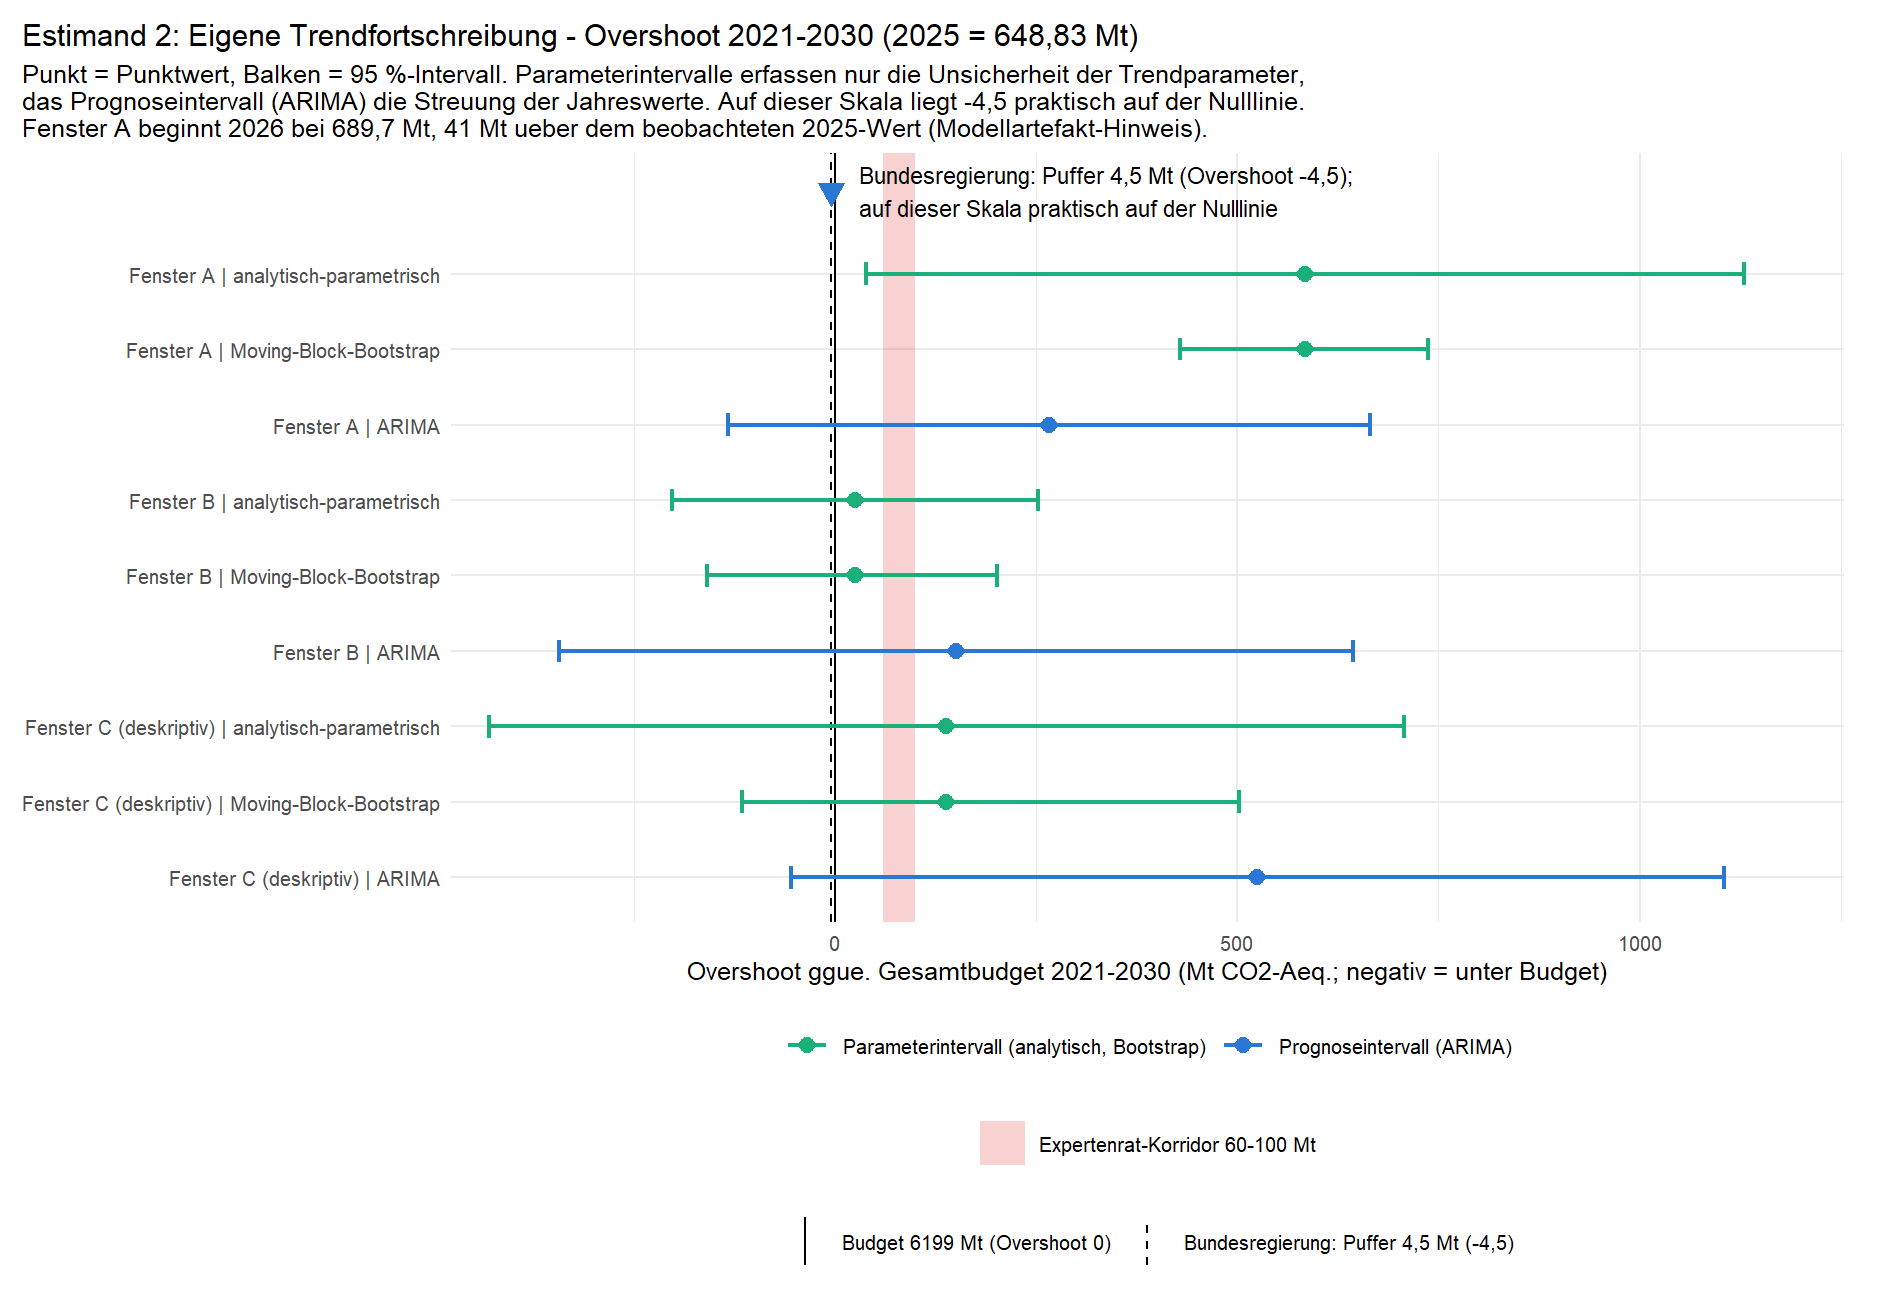
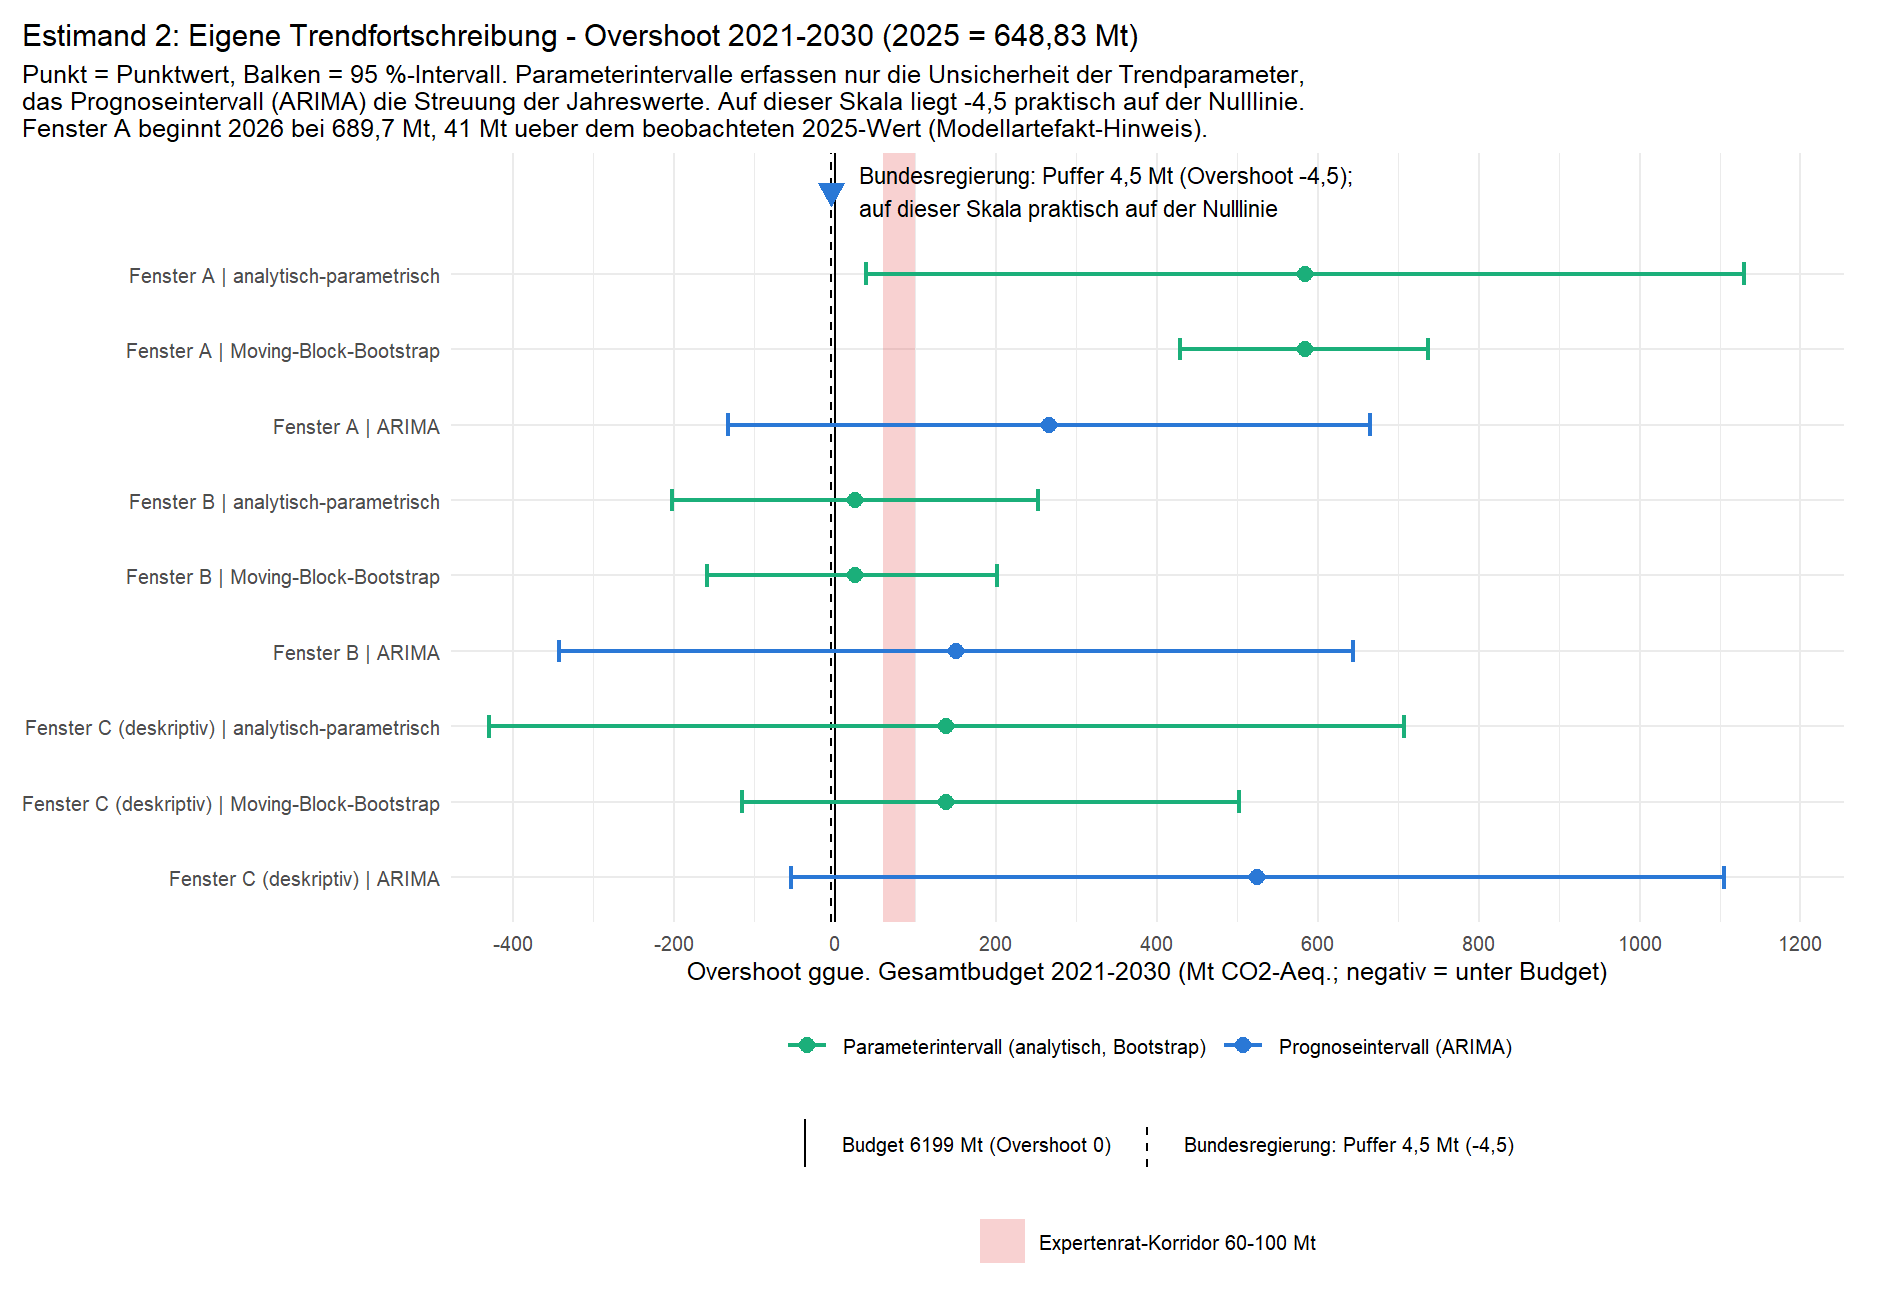
Expertenrat-Budgetabgleich 2030: Fassung 4 (N3.1-N3.3: Statusangleichung nach freigegebenem Erratum, Fenster-C-Erklaerung, Achsenmarken); keine Kernzahl geaendert; Validator-Pruefung der Fassung 4 ausstehend

diff --git a/Analysen/2026-08-expertenrat-budgetabgleich/Analysebericht_expertenrat-budgetabgleich.md b/Analysen/2026-08-expertenrat-budgetabgleich/Analysebericht_expertenrat-budgetabgleich.md
@@ -1,9 +1,9 @@
 # Analysebericht: Expertenrat-Budgetabgleich 2021-2030 und H1-2026
 
-**Fassung 3 (nach Nachpruefung 1 der Validierung), 23.10.2026.** Fassung 1 (Commit 78250e3) enthielt einen Rechenfehler in den ARIMA-Intervallen (behoben in Fassung 2); Fassung 3 behebt vier geringe Befunde der Nachpruefung (N2.1-N2.4: Beschreibung des POST-HOC-Prognoseintervalls, Seed-Beschriftung, Grafikreste, Zusatzkontrollen). Kernzahlen sind gegenueber Fassung 2 unveraendert (Abschnitt "Aenderungen nach Validierung", Fassung 3).
-**SAP:** `SAP_Expertenrat-Budgetabgleich-2030.md`, Version 1.1 (Header: final, eingefroren 29.08.2026, Commit d9215cb). Die Bestaetigung durch Daniel Saure, dass v1.1 als eingefroren gilt, ist in `SAP_Bestaetigung_Daniel_Saure_2026-10-23.md` dokumentiert. Einschraenkung laut dieser Datei: Die im Chat zitierte Nachricht ist nach 300 Zeichen abgeschnitten, und eine ausdrueckliche Antwort zu den offenen Punkten 6a/6b liegt nicht vor; die Textwidersprueche im SAP (Abschnitt 0 "draft", Offene Punkte 6) bleiben bestehen. Der SAP wurde nicht veraendert.
+**Fassung 4 (nach Nachpruefung 2 der Validierung), 24.10.2026.** Fassung 1 (Commit 78250e3) enthielt einen Rechenfehler in den ARIMA-Intervallen (behoben in Fassung 2); Fassung 3 behebt vier geringe Befunde der Nachpruefung (N2.1-N2.4: Beschreibung des POST-HOC-Prognoseintervalls, Seed-Beschriftung, Grafikreste, Zusatzkontrollen). Kernzahlen sind gegenueber Fassung 2 unveraendert (Abschnitt "Aenderungen nach Validierung", Fassung 3). Fassung 4 gleicht die Dokumentation an das freigegebene Erratum an, korrigiert die Erklaerung zu Fenster C und ergaenzt Achsenmarken (N3.1-N3.3); Kernzahlen unveraendert.
+**SAP:** `SAP_Expertenrat-Budgetabgleich-2030.md`, Version 1.1 (Header: final, eingefroren 29.08.2026, Commit d9215cb). Die Bestaetigung durch Daniel Saure, dass v1.1 als eingefroren gilt, ist in `SAP_Bestaetigung_Daniel_Saure_2026-10-23.md` dokumentiert. Die Antworten zu den Offenen Punkten 6a ("Limitation reicht") und 6b (Datenquellen-Zeile 5 bestaetigt) liegen vor (Daniel Saure, 23.10.2026); das SAP-Erratum 1 (`SAP_Erratum_1_Expertenrat-Budgetabgleich-2030.md`) wurde freigegeben (Commit d20e448). Dokumentiert in `SAP_Bestaetigung_Daniel_Saure_2026-10-23.md` (Abschnitt "Ergaenzung") und im Erratum. Die verbliebenen Textwidersprueche im SAP (Abschnitt 0 "draft", Offene Punkte 6) bleiben als Hinweis bestehen und sind im Erratum berichtigt. Der SAP wurde nicht veraendert.
 **Skript:** `expertenrat-budgetabgleich.R` (R 4.6.1), fehlerfrei durchgelaufen (Exit-Code 0), Log `run_log.txt`, `output/sessionInfo.txt`.
-**Status:** Analyst-Ausgabe; Nachpruefung 1 der Validierung liegt vor (Fassung 2), Fassung 3 ist noch nicht erneut geprueft; keine Freigabe, keine Veroeffentlichung.
+**Status:** Analyst-Ausgabe; Nachpruefung 1 und 2 der Validierung liegen vor (Nachtrag 1 und 2 im Validierungsbericht), Fassung 4 ist noch nicht erneut geprueft; keine Freigabe der Analyse, keine Veroeffentlichung.
 **Abweichungen / Rueckfragen / Post-hoc:** `Abweichungsprotokoll_expertenrat-budgetabgleich.md`.
 
 Rundung wie im SAP (11): eine Nachkommastelle fuer Mt und Prozentpunkte; Ausnahmen sind gekennzeichnet (Estimand 1: drei Stellen in Klammern wegen der Toleranz 0,05 pp; Bootstrap-Grenzen in ganzen Mt wegen Monte-Carlo-Fehler).
@@ -164,7 +164,7 @@ Alle Abweichungen liegen innerhalb von 1,2 % (Monte-Carlo-Fehler; Toleranz im Sk
 ### 2.4 Hinweise zu Intervallbreiten (POST-HOC, G2/G3)
 
 - **Bootstrap (Blocklaenge 2, Seed 20260827, B = 2000):** Monte-Carlo-Fehler der Perzentilgrenzen betraegt einige Mt (Wiederholung mit anderen Seeds, B = 10000: Fenster A 431-433 / 736-741, Fenster B -158 bis -156 / 198-201). Blocklaenge 4 (POST-HOC): Fenster A 426-781 (B = 2000) bzw. 427-776 (B = 10000) statt 429-737; Fenster B -110 bis 147 bzw. -118 bis 157; Fenster C -6 bis 412. Laengere Bloecke erweitern also die Obergrenze in A und verengen die Intervalle in B/C (wenige Startpunkte); der Block-Bootstrap ist bei B/C wenig aussagekraeftig. `output/posthoc_bootstrap_sensitivitaet.csv`.
-  **Zur Seed-Beschriftung (Fassung 3, N2.2):** Der Hauptlauf setzt den Seed 20260827 nur einmal und verbraucht den Zufallsstrom der Reihe nach (primaer Fenster A, dann B, dann C, danach der Anhang). Jede Zeile der Sensitivitaetstabelle startet dagegen ihren Strom neu (Spalte `Seed_Neustart`). Nur fuer Fenster A (erster Zug im Strom) stimmt die Zeile "Blocklaenge 2, B = 2000, Seed 20260827" mit dem Hauptlauf ueberein (429 - 737). Fuer B weicht sie ab (Sensitivitaetszeile -153 bis 199 gegenueber Hauptlauf -159 bis 201); bei C stimmen beide innerhalb der Rundung ueberein (-116 bis 502), aber nur zufaellig. Die Abweichung ist reiner Monte-Carlo-Fehler, kein Rechenfehler.
+Fuer B weicht sie ab (Sensitivitaetszeile -153 bis 199 gegenueber Hauptlauf -159 bis 201); bei C liegen beide Zeilen nahezu gleich (Obergrenze identisch 502,3; Untergrenze -116,0 gegenueber -115,6). Das ist keine Zufallsuebereinstimmung, sondern eine Diskretisierungswirkung: Bei n = 6 gibt es nur wenige moegliche Ziehungen von Residuenbloecken und damit nur wenige verschiedene Bootstrap-Ergebnisse (auch die Zeilen mit anderen Seeds liefern dieselbe Untergrenze -115,6). Die Abweichung in B ist Monte-Carlo-Fehler, kein Rechenfehler.
 - **HAC in Fenster A:** Der Standardfehler der 5-Jahres-Summe betraegt bei OLS 63,2 Mt, bei Newey-West mit der sandwich-Voreinstellung (Prewhitening an) 268,3 Mt, ohne Prewhitening 134,9 Mt. Die Breite des analytischen A-Intervalls (Faktor ca. 4 gegenueber OLS) haengt also stark von den Voreinstellungen ab; die SAP-Vorgabe `sandwich::NeweyWest` ist eingehalten. `output/posthoc_hac_vergleich.csv`.
 - **POST-HOC, deskriptiv: Prognoseintervall der Summe fuer OLS (Fassung 3 praezisiert, N2.1).** Berechnet wird: Varianz = Parametervarianz der 5-Jahres-Summe + 5 x sigma^2 (OLS-Restvarianz; Annahme **unabhaengiger** kuenftiger Restfehler), t-Quantil mit n-2 Freiheitsgraden. Die Parametervarianz ist dieselbe wie im analytischen Parameterintervall von 2.2: in Fenster A Newey-West (HAC), in B und C klassisch OLS. Overshoot-Intervalle: **Fenster B -234,4 bis 284,4 und Fenster C -459,6 bis 737,1** (beide Varianten identisch; C n = 6). **Fenster A:** 17,1 bis 1151,3 mit HAC-Parametervarianz (SE der Summe 268,3 Mt) plus iid-Restvarianz; diese Mischung ist inkonsistent, denn die iid-Annahme ist in A verletzt (DW signifikant). Mit klassischer OLS-Parametervarianz (SE 63,2 Mt) ergibt sich 382,3 bis 786,1; dieses Intervall ist bei der vorhandenen Autokorrelation zu optimistisch. Keine der beiden A-Varianten ist ein verlaesslicher Prognosebereich; sie zeigen nur, dass das Ergebnis von der Varianzannahme abhaengt. Nicht im SAP, nicht in Kernaussage oder Klassifikation; `output/posthoc_prognoseintervall_ols.csv` (beide Varianten, Spalte `Parametervarianz_Quelle`).
 
@@ -200,7 +200,7 @@ Grundlage: `Validierungsbericht_expertenrat-budgetabgleich.md` (Commit-Stand 782
 | Befund | Status | Aenderung |
 |---|---|---|
 | **K1** ARIMA-Kovarianz | erledigt | Fehler: `convolve(ar_poly, c(1,-1), type="open")` kehrt das zweite Argument um (alternierende psi-Gewichte). Ersetzt durch eigene Polynommultiplikation `polymul()` mit Unit-Test. Neue Kontrollen: Random-Walk-Formel (sigma^2 * h(h+1)(2h+1)/6) und Monte-Carlo-Simulation (10000 Pfade); die alte Diagonalenkontrolle war blind. Alle ARIMA-Zeilen, Tabellen, Grafik und Text neu. **Alte (falsche) ARIMA-Intervalle:** Overshoot A 173,1-359,5; B 35,3-265,9; C 390,0-660,5. **Neu:** A -132,7 bis 665,4; B -343,1 bis 644,3; C -53,9 bis 1104,4 (Punktwerte unveraendert). Die Klassifikation nach Punktwert aendert sich nicht; jede Aussage aus Fassung 1, die auf der Breite der ARIMA-Intervalle beruhte, war falsch. |
-| **W1** SAP-Bestaetigung | erledigt (mit Einschraenkung) | Verweis auf `SAP_Bestaetigung_Daniel_Saure_2026-10-23.md` im Kopf; Einschraenkung zu 6a/6b benannt. SAP nicht geaendert. |
+| **W1** SAP-Bestaetigung | erledigt (Fassung 4: vollstaendig) | Verweis auf `SAP_Bestaetigung_Daniel_Saure_2026-10-23.md`. Fassung 2/3 nannten noch die fehlende Antwort zu 6a/6b; ueberholt: Die Antworten zu den Offenen Punkten 6a ("Limitation reicht") und 6b (Datenquellen-Zeile 5 bestaetigt) liegen vor (Daniel Saure, 23.10.2026); das SAP-Erratum 1 (`SAP_Erratum_1_Expertenrat-Budgetabgleich-2030.md`) wurde freigegeben (Commit d20e448). Dokumentiert in `SAP_Bestaetigung_Daniel_Saure_2026-10-23.md` (Abschnitt "Ergaenzung") und im Erratum. SAP, Bestaetigungsdatei und Erratum wurden nicht von mir geaendert. |
 | **W2** 625-Variante | erledigt | Aus Hauptbericht, Hauptgrafik und Haeufigkeitszaehlung entfernt, in Anhang A verschoben. Wortlaut korrigiert (Agora-Wert fuer 2026, Anlage 2 KSG = 604 Mt, moegliche Anpassung nach Par. 4 Abs. 2 KSG nur plausibel, nicht belegt). Aussage "SAP schreibt Parallelrechnung vor" zurueckgenommen (SAP 6.3 nicht ausgeloest). Erratum-Hinweis im Abweichungsprotokoll; SAP nicht veraendert. |
 | **W3** Interpretation | erledigt | Kernaussage mit Spanne +25 bis +584 Mt und Intervallueberdeckung vorangestellt; Niveausprung +40,9 Mt und Residuum 2025 genannt; Spalte "Klassifikation (nur Punktwert)"; kein verbales "naeher" fuer A-Zeilen. |
 | **W4** Diagnostik | erledigt | Linearitaets- und ACF-Interpretation je Fenster (2.1) und als Limitation. Keine neuen Modelle. |
@@ -253,3 +253,12 @@ Dateien: `output/anhang_625_tabelle.csv`, `output/anhang_625_overshoot.png`, `ou
 - Tabellen: `output/estimand1_tabelle.csv`, `output/estimand2_tabelle.csv`, `output/diagnostik_tabelle.csv`, `output/arima_kontrollen.csv`, `output/posthoc_*.csv`, `output/datenabgleich_basiszeitreihe.csv`, `output/systemgrenzen_check.csv`, Anhang: `output/anhang_625_*`
 - Grafiken: `output/estimand1_h1_vs_cagr.png`, `output/estimand2_overshoot.png`, `output/estimand2_trend_bis_2030.png`, `output/diagnostik_primaer_*.png`
 - Rohdaten und Pruefsummen: `rohdaten/`, `rohdaten/SHA256SUMS.txt`
+
+### Fassung 4 (Behebung der Auflagen N3.1-N3.3 aus Nachtrag 2)
+
+| Befund | Status | Aenderung |
+|---|---|---|
+| **N3.1** Widerspruch zu Erratum/6a/6b | erledigt | Kopf und Tabelle W1 des Berichts sowie das Abweichungsprotokoll (RF-1-Nachtrag, Offene Punkte 2 und 3, Schlusszeile) angeglichen: Die Antworten zu den Offenen Punkten 6a ("Limitation reicht") und 6b (Datenquellen-Zeile 5 bestaetigt) liegen vor (Daniel Saure, 23.10.2026); das SAP-Erratum 1 (`SAP_Erratum_1_Expertenrat-Budgetabgleich-2030.md`) wurde freigegeben (Commit d20e448). Dokumentiert in `SAP_Bestaetigung_Daniel_Saure_2026-10-23.md` (Abschnitt "Ergaenzung") und im Erratum. Die Bestaetigungsdatei (von Daniel Saure/Top-Level-Session bereits ergaenzt) und das Erratum wurden nicht geaendert. |
+| **N3.2** Erklaerung Fenster C | erledigt | Formulierung korrigiert (2.4): Die Naehe der C-Sensitivitaetszeile zum Hauptlauf ist eine Diskretisierungswirkung bei n = 6 (wenige moegliche Ziehungen), kein Zufall. |
+| **N3.3** Achsenmarken | erledigt | `estimand2_overshoot.png` (und `anhang_625_overshoot.png`) haben jetzt Marken alle 200 Mt, darunter -400 und -200. Grafik mit Read visuell geprueft. |
+| Zahlen | unveraendert | Keine Kernzahl geaendert; Skript erneut gelaufen (Exit 0), Pruefsummenvergleich: alle 24 Dateien unveraendert. |

diff --git a/Analysen/2026-08-expertenrat-budgetabgleich/Abweichungsprotokoll_expertenrat-budgetabgleich.md b/Analysen/2026-08-expertenrat-budgetabgleich/Abweichungsprotokoll_expertenrat-budgetabgleich.md
@@ -47,7 +47,7 @@ Grundlage: `Validierungsbericht_expertenrat-budgetabgleich.md`. Fassung 1 (Commi
 
 | Nr. | Aenderung in Fassung 2 |
 |---|---|
-| RF-1 | `SAP_Bestaetigung_Daniel_Saure_2026-10-23.md` liegt vor und ist im Bericht referenziert. Einschraenkung: Chat-Zitat nach 300 Zeichen abgeschnitten; keine ausdrueckliche Antwort zu den Offenen Punkten 6a/6b; Textwidersprueche im SAP bestehen weiter. Der SAP wurde nicht veraendert. |
+| RF-1 | `SAP_Bestaetigung_Daniel_Saure_2026-10-23.md` liegt vor und ist im Bericht referenziert. [Stand Fassung 2; in Fassung 4 ueberholt:] Einschraenkung damals: Chat-Zitat nach 300 Zeichen abgeschnitten; keine ausdrueckliche Antwort zu 6a/6b. **Fassung 4:** Die Antworten zu den Offenen Punkten 6a ("Limitation reicht") und 6b (Datenquellen-Zeile 5 bestaetigt) liegen vor (Daniel Saure, 23.10.2026); das SAP-Erratum 1 (`SAP_Erratum_1_Expertenrat-Budgetabgleich-2030.md`) wurde freigegeben (Commit d20e448). Dokumentiert in `SAP_Bestaetigung_Daniel_Saure_2026-10-23.md` (Abschnitt "Ergaenzung") und im Erratum. Der SAP, die Bestaetigungsdatei und das Erratum wurden nicht von mir geaendert. |
 | RF-2 | Wortlaut korrigiert (Validierung W2): Agora nennt 625 Mt als gesetzliche Hoechstmenge 2026; Anlage 2 KSG (BGBl. 2024 I Nr. 235, abgerufen 23.10.2026, `rohdaten/ksg/`) nennt 604 Mt fuer 2026. Moeglicherweise ist 625 die nach Par. 4 Abs. 2 KSG angepasste Jahresmenge (Plausibilitaet: ERK-Anpassung 2030: 459,2 vs. 438 = +21,2; 604 + 21,2 = 625,2); in den Expertenrat-Dokumenten kommt 625 nicht vor, Agora ist die einzige Quelle, nicht belegt. Die 625-Variante ist auf Entscheidung Daniel Saure (23.10.2026) im Anhang A (POST-HOC, nicht SAP-erforderlich, ohne Aussagewert). Die Fassung-1-Aussage, SAP 6.3 schreibe die Parallelrechnung vor, ist zurueckgenommen: Die Bedingung (ungeklaerte Diskrepanz) ist nach der Klaerung nicht ausgeloest. |
 | RF-3 | Spalten umbenannt in "Parameterintervall" (analytisch, Bootstrap) und "Prognoseintervall" (ARIMA). Zusaetzlich POST-HOC-Prognoseintervall fuer OLS unter der Annahme unabhaengiger Fehler (Var = Parametervarianz + 5 sigma^2): A 17,1-1151,3 (Annahme verletzt, zu optimistisch), B -234,4-284,4, C -459,6-737,1. Begruendung: Estimand 2 betrifft die tatsaechliche Summe. Nicht im SAP, nicht Teil der Hauptergebnisse. |
 | RF-4 | Blocklaenge 2, Seed 20260827, B = 2000 bleiben primaer (Amendment-Praezedenz). POST-HOC: Blocklaenge 4 (A: 426-781 statt 429-737) und B = 10000 mit weiteren Seeds; Monte-Carlo-Fehler der Grenzen einige Mt; Bootstrap-Grenzen in ganzen Mt. Der Seed-Strom der Hauptlaeufe wurde nicht veraendert (Hauptergebnisse identisch zu Fassung 1). |
@@ -67,8 +67,8 @@ Grundlage: `Validierungsbericht_expertenrat-budgetabgleich.md`. Fassung 1 (Commi
 ## Offene Punkte (Fassung 2)
 
 1. Fokussierte Nachpruefung durch den validator als eigene Datei (CLAUDE.md, Dokumentationspflicht).
-2. Mensch: Soll ein formales SAP-Erratum zur 625-Annahme gefuehrt werden? Bleibt Anhang A im Bericht oder entfaellt er ganz (Validator bevorzugt Streichen)?
-3. Mensch: Ausdrueckliche Antwort zu den SAP-Punkten 6a/6b steht aus (siehe `SAP_Bestaetigung_Daniel_Saure_2026-10-23.md`).
+2. [Erledigt, Fassung 4] Mensch: Soll ein formales SAP-Erratum zur 625-Annahme gefuehrt werden? -> Erratum 1 wurde gefuehrt und am 23.10.2026 freigegeben (`SAP_Erratum_1_Expertenrat-Budgetabgleich-2030.md`, Commit d20e448). Zu Anhang A: bleibt als Audit-Trail, nicht in Blog/Kapitel/Kanaltexte (Verwendungsvermerk im Bericht).
+3. [Erledigt, Fassung 4] Antwort zu den SAP-Punkten 6a/6b: liegt vor (Daniel Saure, 23.10.2026; 6a: Limitation reicht, 6b: Datenquellen-Zeile 5 bestaetigt), dokumentiert im Erratum und in `SAP_Bestaetigung_Daniel_Saure_2026-10-23.md`.
 4. Herkunft der 625 (angepasste Jahresmenge?) ist nicht durch ein UBA-Dokument belegt; Quelle waere die UBA-Berechnung der Emissionsdaten 2025 (UBA 2026g, Tabelle 3).
 5. RF-3: Ob das POST-HOC-Prognoseintervall fuer OLS (bzw. eine GLS/AR(1)-Variante fuer Fenster A) ein SAP-Amendment braucht, entscheidet der Mensch.
 
@@ -86,4 +86,18 @@ Grundlage: Nachtrag 1 des Validierungsberichts. Keine Kernzahl hat sich geaender
 | N2.4 | Zusatzkontrollen fuer ARIMA(1,1,0), (0,1,1) und (0,1,0) an simulierten Reihen (eigene Seeds, 20000 MC-Pfade, geschlossene psi-Formeln); alle bestanden (MC-Abweichung <= 1,2 %, psi und Diagonale exakt). Hinweis zum identischen MC/analytisch-Verhaeltnis (gleicher Seed) im Bericht. Technisch: Der Zufallsstrom wird um die Zusatzkontrollen gesichert und wiederhergestellt; ein erster Entwurf ohne Sicherung hatte die Bootstrap-Hauptergebnisse veraendert (A 432 statt 429) und wurde vor dem Endlauf korrigiert, Endlauf identisch zu Fassung 2. |
 | Anhang A | Verwendungsvermerk im Analysebericht: bleibt als Audit-Trail im Repo, geht nicht in Blog, Kapitel oder Kanaltexte (Entscheidung Daniel Saure). |
 
-Offen: Fokussierte Pruefung der Fassung 3 durch den validator als eigene Datei; Entscheidungen zu SAP-Erratum und Antwort 6a/6b liegen beim Menschen (siehe Nachtrag Fassung 2).
+Offen: Fokussierte Pruefung der Fassung 3 durch den validator als eigene Datei (inzwischen als Nachtrag 2 erfolgt); [Fassung 4: Entscheidungen zu SAP-Erratum und zu 6a/6b liegen vor, siehe Nachtrag Fassung 4].
+
+---
+
+# Nachtrag Fassung 4 (Behebung N3.1-N3.3), 24.10.2026
+
+Grundlage: Nachtrag 2 des Validierungsberichts. Keine Kernzahl hat sich geaendert; Skript erneut gelaufen (Exit 0), Pruefsummenvergleich der Rohdaten: alle 24 Dateien unveraendert.
+
+| Befund | Aenderung |
+|---|---|
+| N3.1 | Bericht (Kopf, Tabelle W1), RF-1-Nachtrag, Offene Punkte 2 und 3 und die Schlusszeile von Nachtrag Fassung 3 angeglichen: Die Antworten zu den Offenen Punkten 6a ("Limitation reicht") und 6b (Datenquellen-Zeile 5 bestaetigt) liegen vor (Daniel Saure, 23.10.2026); das SAP-Erratum 1 (`SAP_Erratum_1_Expertenrat-Budgetabgleich-2030.md`) wurde freigegeben (Commit d20e448). Dokumentiert in `SAP_Bestaetigung_Daniel_Saure_2026-10-23.md` (Abschnitt "Ergaenzung") und im Erratum. Nicht geaendert: SAP, Validierungsbericht, Erratum, Bestaetigungsdatei. |
+| N3.2 | Erklaerung zu Fenster C im Bericht korrigiert: Diskretisierungswirkung bei n = 6 (wenige moegliche Ziehungen, auch mit anderen Seeds dieselbe Untergrenze -115,6), kein Zufall. Der Hinweis in der CSV (`posthoc_bootstrap_sensitivitaet.csv`) wurde nicht geaendert; er nennt B und C als abweichend, was fuer C nur im Rahmen von Rundung zutrifft. |
+| N3.3 | Achsenmarken der Hauptgrafik `estimand2_overshoot.png` (und Anhangsgrafik) alle 200 Mt, inkl. -400 und -200; visuell geprueft. |
+
+Offen: Fokussierte Pruefung der Fassung 4 durch den validator (nur Dokumentations- und Grafikkorrekturen). Freigabe der Analyse beim Menschen.
